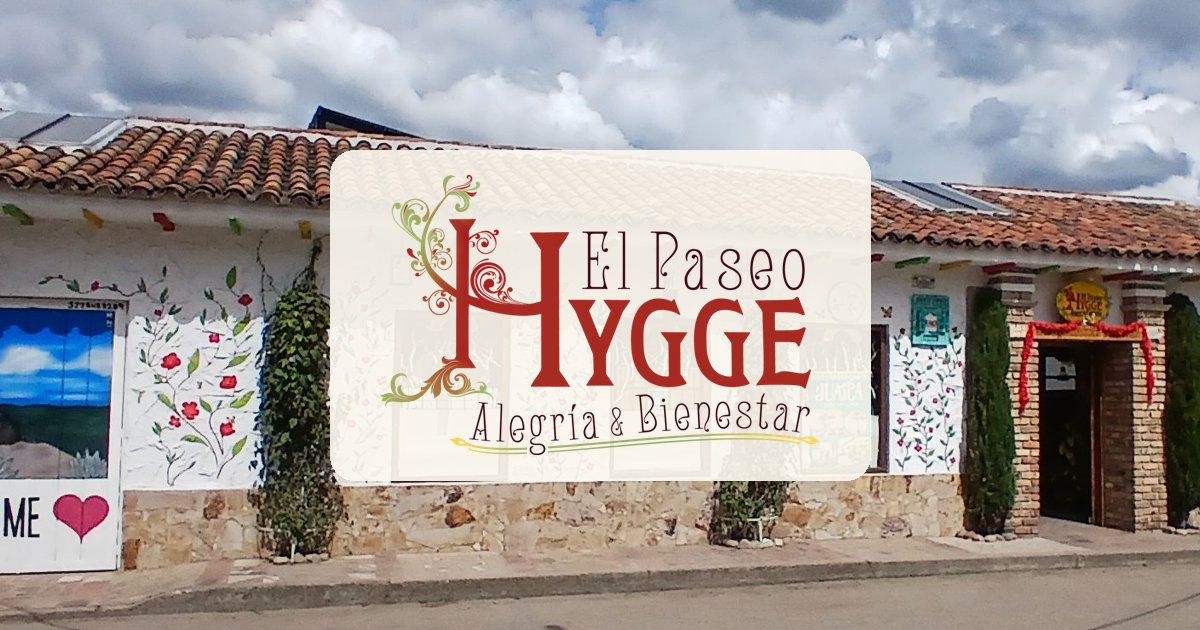
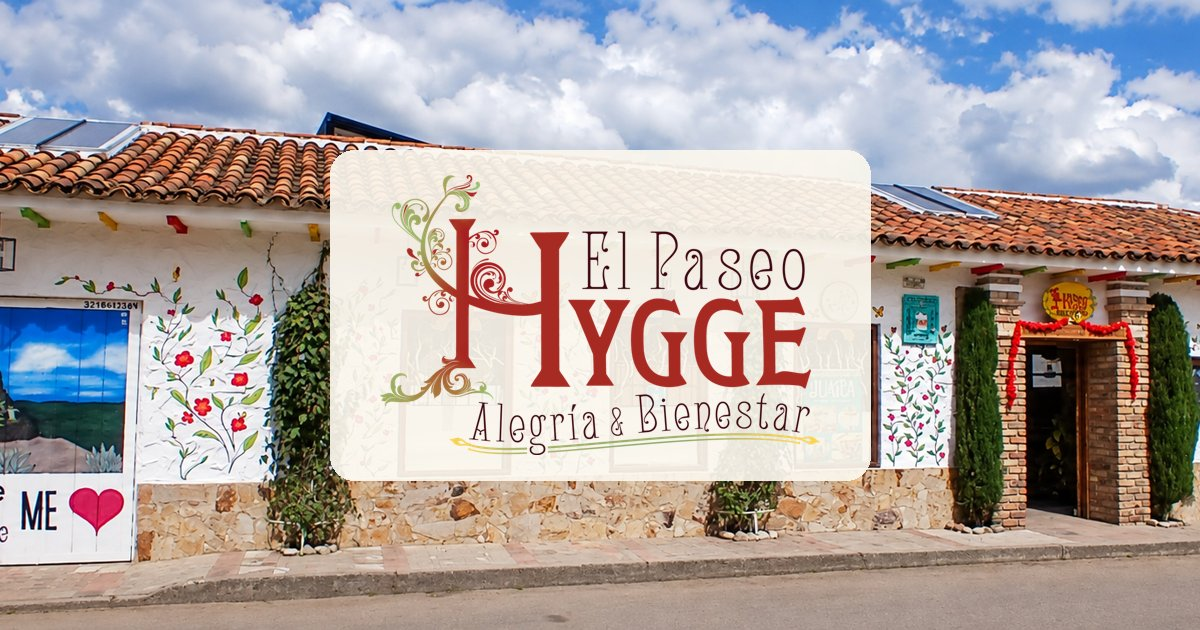
Fachada: la foto sin el cable, también en la imagen para compartir

diff --git a/src/styles/global.css b/src/styles/global.css
@@ -86,7 +86,7 @@ p { margin: 0 0 1em; }
 .hero-foto {
   width: 100%;
   height: auto;
-  aspect-ratio: 2289 / 740;
+  aspect-ratio: 2172 / 724;
   object-fit: cover;
 }
 .hero-texto {
